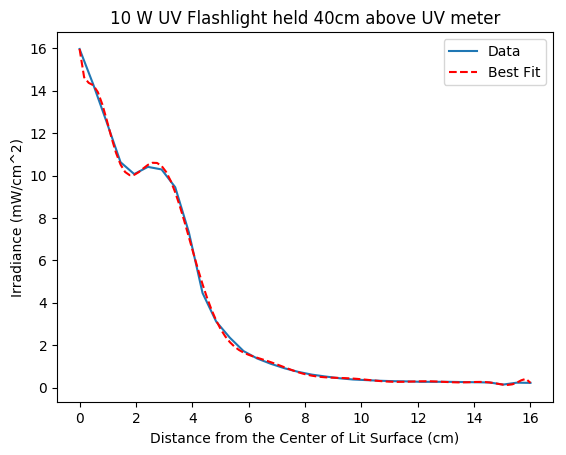
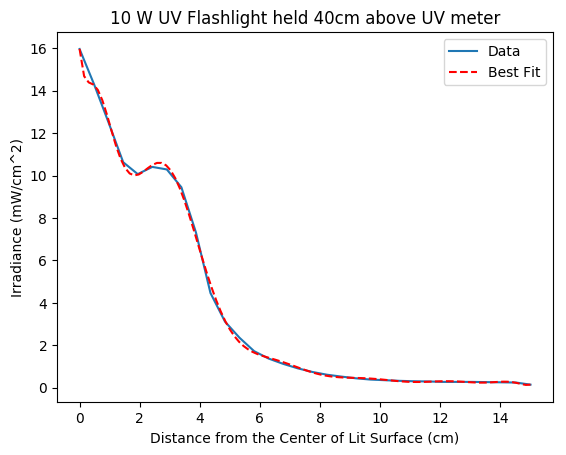
Create fit function

diff --git a/src/python_scripts/best_fit.py b/src/python_scripts/best_fit.py
@@ -3,28 +3,36 @@ import numpy as np
 import matplotlib.pyplot as plt
 from scipy.optimize import curve_fit
 
-# Measured Irradaicne values
-ir = [15.97, 14.30, 12.49, 10.63, 10.07, 10.41, 10.29, 9.45, 7.32, 4.46, 3.11, 2.35, 1.72, 1.37, 1.12, 0.91, 0.74,
-        0.61, 0.52,  0.44,  0.38,  0.35,  0.32,  0.30, 0.29, 0.27, 0.27, 0.27, 0.26, 0.25, 0.24, 0.14, 0.23, 0.22]
+def fit(order = 2, plotter = False):
+    # Measured Irradaicne values
+    ir = [15.97, 14.30, 12.49, 10.63, 10.07, 10.41, 10.29, 9.45, 7.32, 4.46, 3.11, 2.35, 1.72, 1.37, 1.12, 0.91, 0.74,
+            0.61, 0.52,  0.44,  0.38,  0.35,  0.32,  0.30, 0.29, 0.27, 0.27, 0.27, 0.26, 0.25, 0.24, 0.14]#, 0.23, 0.22]
 
-# Meter positions from the center of the lit surface. stopped at 16cm
-x = np.linspace(0,16, len(ir))
+    # Meter positions from the center of the lit surface. stopped at 16cm
+    x = np.linspace(0,15, len(ir))
 
-# Polyfit for data.
-model = np.poly1d(np.polyfit(x, ir, 15))
+    # Polyfit for data.
+    model = np.poly1d(np.polyfit(x, ir, order))
 
-# Create a sequence of values to plug in the model
-x_line = np.linspace(0,16,100)
+    # Create a sequence of values to plug in the model
+    x_line = np.linspace(0,15,100)
 
-# Input of x_line of data
-best_fit = model(x_line)
+    # Input of x_line of data
+    best_fit = model(x_line)
 
-# Plot both original data and best fit
-plt.plot(x, ir)
-plt.plot(x_line, best_fit, '--', color = 'red')
-plt.xlabel('Distance from the Center of Lit Surface (cm)')
-plt.ylabel('Irradiance (mW/cm^2)')
-plt.title('10 W UV Flashlight held 40cm above UV meter')
-plt.legend(['Data', 'Best Fit'])
-plt.savefig("Distance_vs_Irradiance.png", bbox_inches='tight')
-plt.show()
+    if plotter:
+        # Plot both original data and best fit
+        plt.plot(x, ir)
+        plt.plot(x_line, best_fit, '--', color = 'red')
+        plt.xlabel('Distance from the Center of Lit Surface (cm)')
+        plt.ylabel('Irradiance (mW/cm^2)')
+        plt.title('10 W UV Flashlight held 40cm above UV meter')
+        plt.legend(['Data', 'Best Fit'])
+        # plt.savefig("Distance_vs_Irradiance.png", bbox_inches='tight')
+        plt.show()
+
+    return model
+
+if __name__ == '__main__':
+    model = fit(15, True)
+    print(model)
